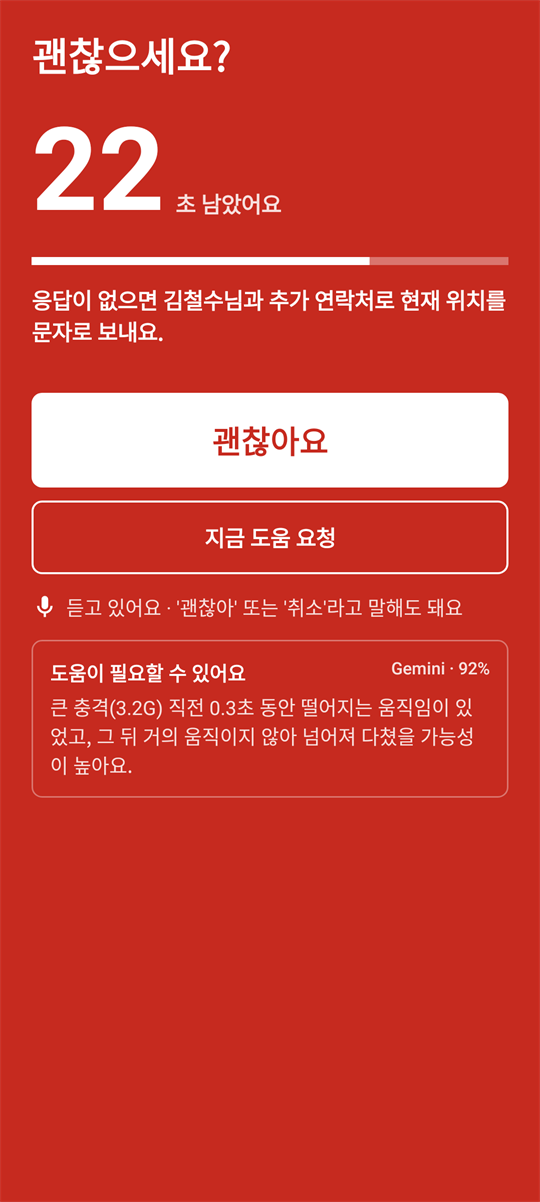
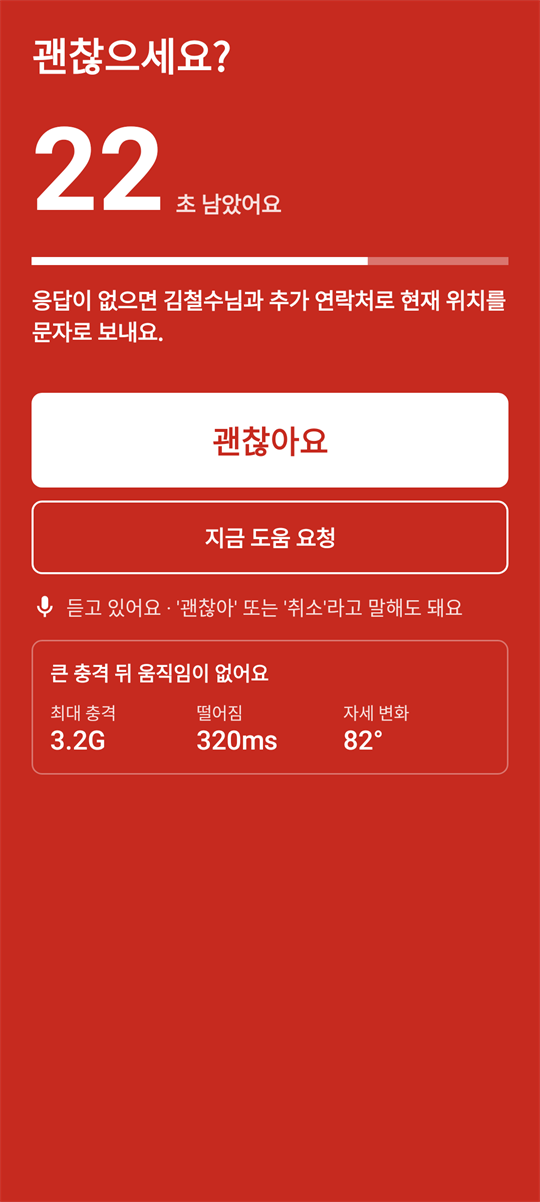
설치 사이트 2.2.0: 인터넷 없이 판단, 안드로이드 15 문자 권한 안내

Changed region(s): [[0.0889, 0.5541, 0.8889, 0.6464]]

diff --git a/docs/index.html b/docs/index.html
@@ -208,10 +208,10 @@
         <p class="lead">휴대폰 센서로 넘어짐과 큰 충격을 감지하는 안드로이드 앱이에요. 먼저 괜찮은지 묻고, 응답이 없으면 보호자에게 지금 있는 곳을 문자로 보내요.</p>
 
         <div class="for-android">
-          <a class="btn btn-primary js-download" id="download" href="https://github.com/EunYool10/KTAIContest-Submission/releases/download/v2.1.0/ai-shock-alert.apk">
+          <a class="btn btn-primary js-download" id="download" href="https://github.com/EunYool10/KTAIContest-Submission/releases/download/v2.2.0/ai-shock-alert.apk">
             <svg class="i" aria-hidden="true"><use href="#i-down"/></svg>설치 파일 내려받기
           </a>
-          <p class="meta">버전 2.1.0 · 12MB · 안드로이드 7.0 이상 · 무료</p>
+          <p class="meta">버전 2.2.0 · 11.7MB · 안드로이드 7.0 이상 · 무료</p>
           <div class="after box" id="after" role="status">
             <strong>내려받기를 시작했어요</strong>
             <ol>
@@ -231,7 +231,7 @@
             </div>
           </div>
           <div class="links">
-            <a class="js-download" href="https://github.com/EunYool10/KTAIContest-Submission/releases/download/v2.1.0/ai-shock-alert.apk">PC에서 설치 파일 받기 (2.1.0 · 12MB)</a>
+            <a class="js-download" href="https://github.com/EunYool10/KTAIContest-Submission/releases/download/v2.2.0/ai-shock-alert.apk">PC에서 설치 파일 받기 (2.2.0 · 11.7MB)</a>
             <button class="btn btn-line js-copy" type="button"><svg class="i" aria-hidden="true"><use href="#i-copy"/></svg>링크 복사</button>
           </div>
         </div>
@@ -313,6 +313,7 @@
         <h3>설치한 뒤 꼭 해 주세요</h3>
         <ul>
           <li>홈 화면의 '준비 상태'에서 빠진 항목을 켜 주세요. 특히 <b>배터리 최적화 제외</b>를 켜야 절전 중에도 감지가 멈추지 않아요.</li>
+          <li>안드로이드 15 이상이면 문자 권한이 막혀 있을 수 있어요. 앱이 알려 주는 대로 '제한된 설정 허용'을 켠 뒤 문자 권한을 허용해 주세요.</li>
           <li>'경보 테스트'로 한 번 연습해 보세요. 테스트에서는 문자를 보내지 않아요.</li>
           <li>보호자에게 이 앱을 쓴다고 미리 알려 주세요. 긴급 문자를 받고 놀라지 않도록요.</li>
         </ul>
@@ -324,17 +325,16 @@
     <div class="wrap">
       <div class="sec-head">
         <h2 id="perm-title">권한</h2>
-        <p>앱을 처음 열면 하나씩 물어봐요. 허용하지 않은 항목은 나중에 홈 화면 '준비 상태'에서 다시 켤 수 있어요.</p>
+        <p>앱을 처음 열면 하나씩 물어봐요. 허용하지 않은 항목은 나중에 홈 화면 '준비 상태'에서 다시 켤 수 있어요. 인터넷 권한은 쓰지 않아요.</p>
       </div>
       <table class="perm">
         <thead><tr><th scope="col">권한</th><th scope="col">필요</th><th scope="col">쓰는 곳</th></tr></thead>
         <tbody>
           <tr><th scope="row">위치</th><td><span class="need req">필요</span></td><td>도움 요청 문자에 넣을 위치를 감지 중에 가볍게 확인해요. 문자 말고는 어디에도 보내지 않아요.</td></tr>
-          <tr><th scope="row">문자</th><td><span class="need req">필요</span></td><td>응답이 없을 때 보호자에게 문자를 보내요. 다른 문자는 읽지 않아요.</td></tr>
+          <tr><th scope="row">문자</th><td><span class="need req">필요</span></td><td>응답이 없을 때 보호자에게 문자를 보내요. 다른 문자는 읽지 않아요. 안드로이드 15 이상에서는 '제한된 설정 허용'을 먼저 켜야 해요.</td></tr>
           <tr><th scope="row">알림</th><td><span class="need req">필요</span></td><td>화면이 꺼져 있어도 경보와 감지 상태를 보여 줘요.</td></tr>
           <tr><th scope="row">배터리 최적화 제외</th><td><span class="need req">권장</span></td><td>절전 모드에서도 감지가 멈추지 않게 해요.</td></tr>
           <tr><th scope="row">마이크</th><td><span class="need opt">선택</span></td><td>경보 중에만 "괜찮아"를 들어요. 녹음하거나 저장하지 않아요.</td></tr>
-          <tr><th scope="row">인터넷</th><td><span class="need opt">선택</span></td><td>AI 판단을 켰을 때 센서 수치만 보내요. 없어도 감지는 그대로 돼요.</td></tr>
         </tbody>
       </table>
     </div>
@@ -354,7 +354,7 @@
         </details>
         <details>
           <summary>넘어진 건지 어떻게 판단하나요?</summary>
-          <p>센서로 잰 떨어지는 움직임, 충격 크기, 충격 뒤 자세와 움직임을 보고 판단해요. 앱의 설정 → 판단 방식에서 Gemini API 키를 넣으면 AI가 이 수치를 함께 보고 판단해요. 인터넷이 안 되거나 9초 안에 답이 없으면 기기 안 규칙으로 바로 판단해요.</p>
+          <p>센서로 잰 떨어지는 움직임, 충격 크기, 충격 뒤 자세와 움직임을 보고 휴대폰 안에서 바로 판단해요. 인터넷이 없어도 동작하고, 센서 값은 휴대폰 밖으로 보내지 않아요. 애매하면 문자를 보내기 전에 항상 먼저 물어봐요.</p>
         </details>
         <details>
           <summary>문자 요금이 나오나요?</summary>
@@ -366,7 +366,11 @@
         </details>
         <details>
           <summary>내 정보는 어디에 저장되나요?</summary>
-          <p>이름, 연락처, 기록은 휴대폰 안에만 저장돼요. 위치는 도움 요청 문자에만 들어가요. AI 판단을 켜면 센서 수치만 Google Gemini로 보내고, 이름이나 위치는 보내지 않아요. 직접 넣은 API 키는 휴대폰에만 저장되고 백업되지 않아요.</p>
+          <p>이름, 연락처, 기록은 휴대폰 안에만 저장되고 인터넷으로 보내지 않아요. 위치는 도움 요청 문자에만 들어가요.</p>
+        </details>
+        <details>
+          <summary>문자 권한이 '제한된 설정'이라며 켜지지 않아요.</summary>
+          <p>안드로이드 15부터는 설치 파일로 설치한 앱의 문자 권한이 처음에 막혀 있어요. 설정 → 애플리케이션 → AI 충격 감지 경보 → 오른쪽 위 ⋮(더보기) → '제한된 설정 허용'을 누른 뒤, '권한' → 'SMS'에서 허용해 주세요. 권한이 없을 때 도움을 요청하면 문자 앱이 받는 사람과 내용을 채워 열리니 '보내기'만 누르면 돼요.</p>
         </details>
         <details>
           <summary>"앱이 설치되지 않았습니다"라고 나와요.</summary>
@@ -389,15 +393,17 @@
       <div class="sec-head"><h2 id="version-title">버전 정보</h2></div>
       <table class="kv">
         <tbody>
-          <tr><th scope="row">버전</th><td>2.1.0</td></tr>
+          <tr><th scope="row">버전</th><td>2.2.0</td></tr>
           <tr><th scope="row">날짜</th><td>2026년 11월 8일</td></tr>
-          <tr><th scope="row">크기</th><td>12MB · 안드로이드 7.0 이상</td></tr>
-          <tr><th scope="row">SHA-256</th><td><code>1be3b4602d093b5680f3f7b265d1b7e1d0ce8322afc9f8940d8d7b2d1377a6bc</code></td></tr>
+          <tr><th scope="row">크기</th><td>11.7MB · 안드로이드 7.0 이상</td></tr>
+          <tr><th scope="row">SHA-256</th><td><code>e96aee1be22f0341505bdfa0cb31731d3e2ab09a3669d3cc13e11657966c9707</code></td></tr>
         </tbody>
       </table>
       <ul class="changes">
-        <li>화면을 새로 정리했어요. 감지는 스위치로 켜고 끄고, 설정과 기록은 목록으로 읽기 쉽게 바꿨어요.</li>
-        <li>경보 화면을 단순하게 바꿨어요. 남은 시간을 크게 보여 주고 '괜찮아요' 버튼을 더 크게 했어요.</li>
+        <li>모든 판단을 휴대폰 안에서 해요. AI 연결(Gemini) 기능을 없애고 인터넷 권한도 쓰지 않아요.</li>
+        <li>안드로이드 15 이상에서 문자 권한이 막혀 있으면 켜는 방법을 앱이 바로 알려 줘요.</li>
+        <li>자동 문자를 못 보냈을 때 '문자 앱으로 보내기'가 삼성 메시지에서도 받는 사람을 제대로 채워요.</li>
+        <li>유심이 두 개인 휴대폰은 문자 기본 유심으로 보내요.</li>
       </ul>
       <p class="links"><a href="https://github.com/EunYool10/KTAIContest-Submission/releases">이전 버전 보기</a><a href="https://github.com/EunYool10/KTAIContest-Submission">소스 코드</a></p>
     </div>
@@ -412,8 +418,8 @@
 </footer>
 
 <div class="dock" id="dock" aria-hidden="true">
-  <span><b>AI 충격 감지 경보</b>2.1.0 · 12MB</span>
-  <a class="btn btn-primary js-download" href="https://github.com/EunYool10/KTAIContest-Submission/releases/download/v2.1.0/ai-shock-alert.apk" tabindex="-1">
+  <span><b>AI 충격 감지 경보</b>2.2.0 · 11.7MB</span>
+  <a class="btn btn-primary js-download" href="https://github.com/EunYool10/KTAIContest-Submission/releases/download/v2.2.0/ai-shock-alert.apk" tabindex="-1">
     <svg class="i" aria-hidden="true"><use href="#i-down"/></svg>내려받기
   </a>
 </div>
